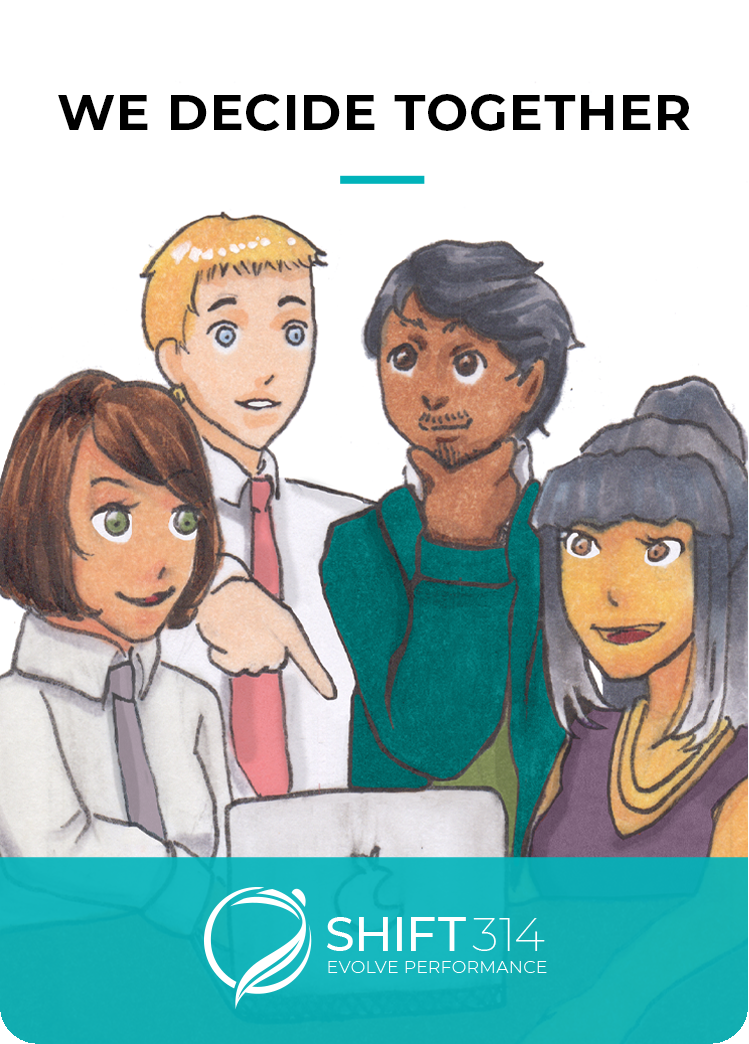
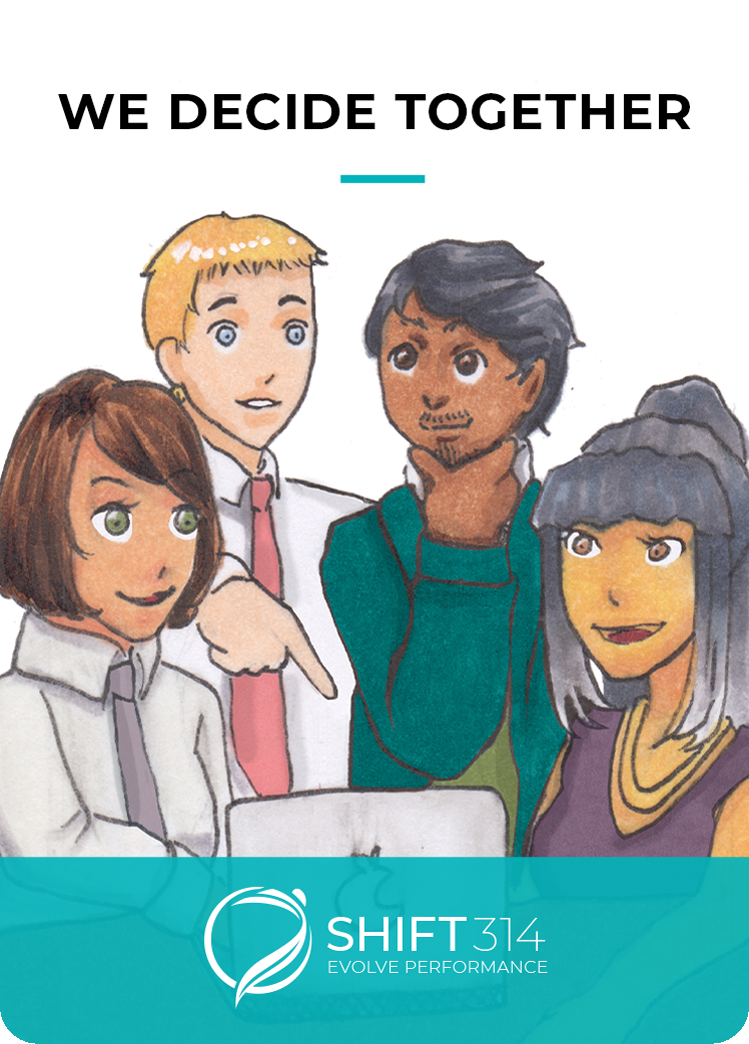
New images and fullscreen fix.

diff --git a/js/main.js b/js/main.js
@@ -4,3 +4,36 @@ import App from "./App.js";
 import { html } from "../web_modules/htm/preact.js";
 
 hydrate(html` <${App} /> `, document.getElementById("goodthing"));
+
+// Doesn't work on iPhone ~ https://caniuse.com/#feat=fullscreen
+// Plus we only want fullscreen on touch devices
+// $FlowFixMe
+if (Modernizr.hasEvent("touchend") && screenfull.isEnabled) {
+  // $FlowFixMe
+  document.getElementById("goodthing").addEventListener(
+    "touchend",
+    () => {
+      screenfull.request();
+    },
+    { once: true },
+  );
+}
+
+// Fix for iOS not handling viewport height the same way as everyone else
+if (
+  typeof window !== "undefined" &&
+  !!navigator.platform &&
+  /iPad|iPhone|iPod/.test(navigator.platform)
+) {
+  // it's probably an iPhone
+  window.onresize = function () {
+    // $FlowFixMe
+    document.body.style.height = window.innerHeight + "px";
+    // $FlowFixMe
+    document.body.parentNode.style.height = window.innerHeight + "px";
+    // $FlowFixMe
+    document.getElementById("goodthing").style.height =
+      window.innerHeight + "px";
+  };
+  window.onresize(); // called to initially set the height.
+}
